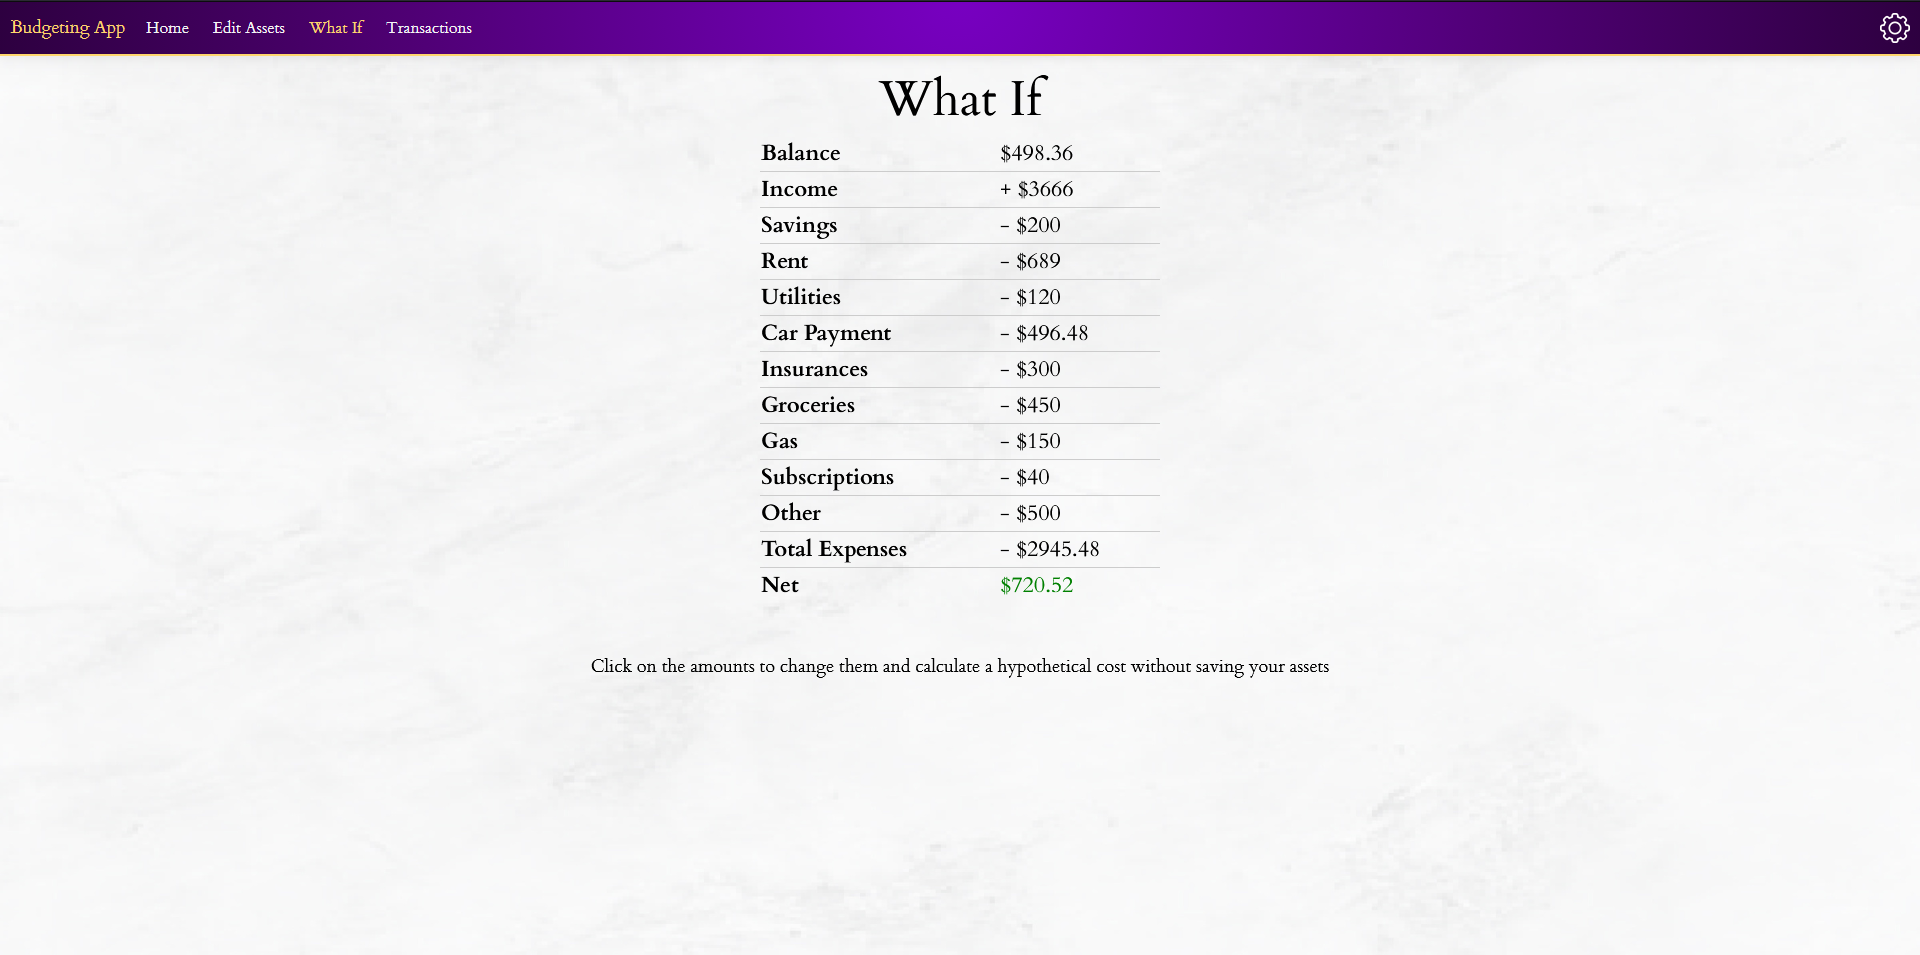
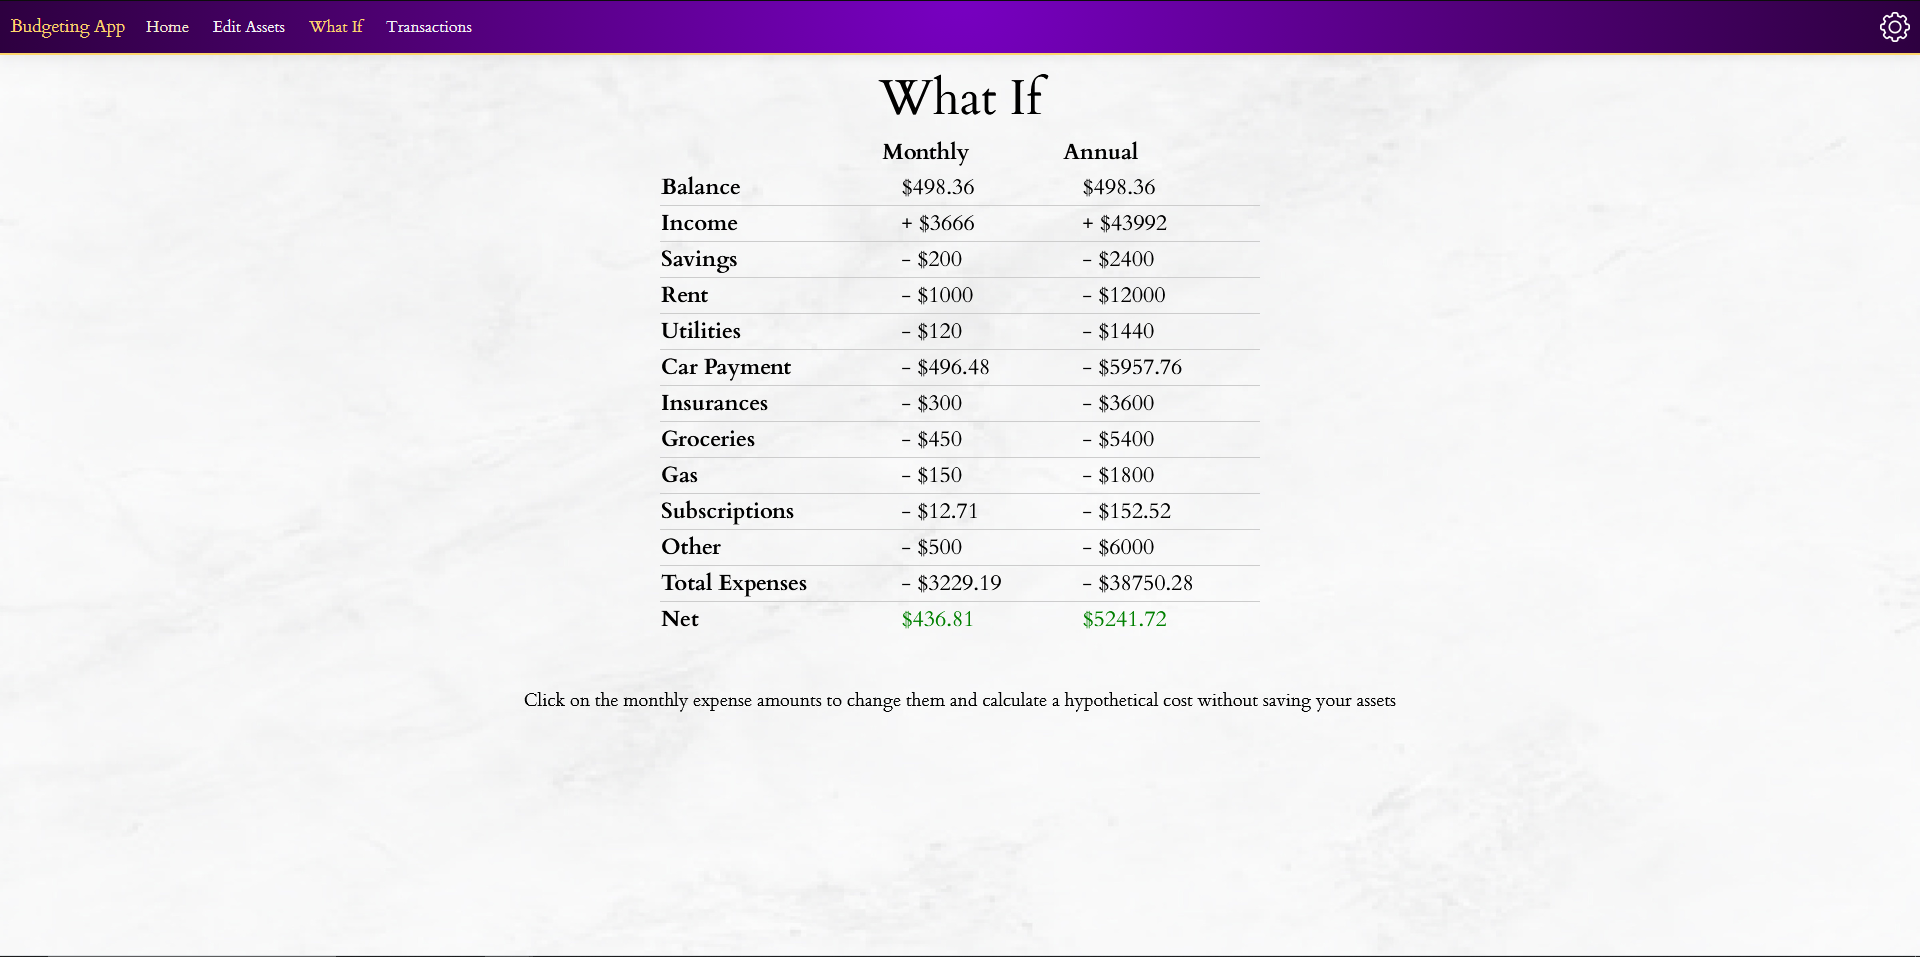
Add yearly expense calculation to What If and update What If demo screenshot.

diff --git a/BudgetingApp/wwwroot/css/site.css b/BudgetingApp/wwwroot/css/site.css
@@ -204,7 +204,7 @@ body {
 
 #what-if-assets-table {
     font-size: 22px;
-    width: 400px;
+    width: 600px;
     margin: auto;
 }
 
@@ -214,10 +214,6 @@ body {
 
 #what-if-assets-table tr:last-child {
     border-bottom: none;
-}
-
-#what-if-assets-table td {
-    display: flex;
 }
 
 #what-if-explanation {
@@ -334,4 +330,8 @@ body {
 
 .change-password-inputs input {
     margin-bottom: 10px;
+}
+
+.asset-amount {
+    display: inline;
 }
